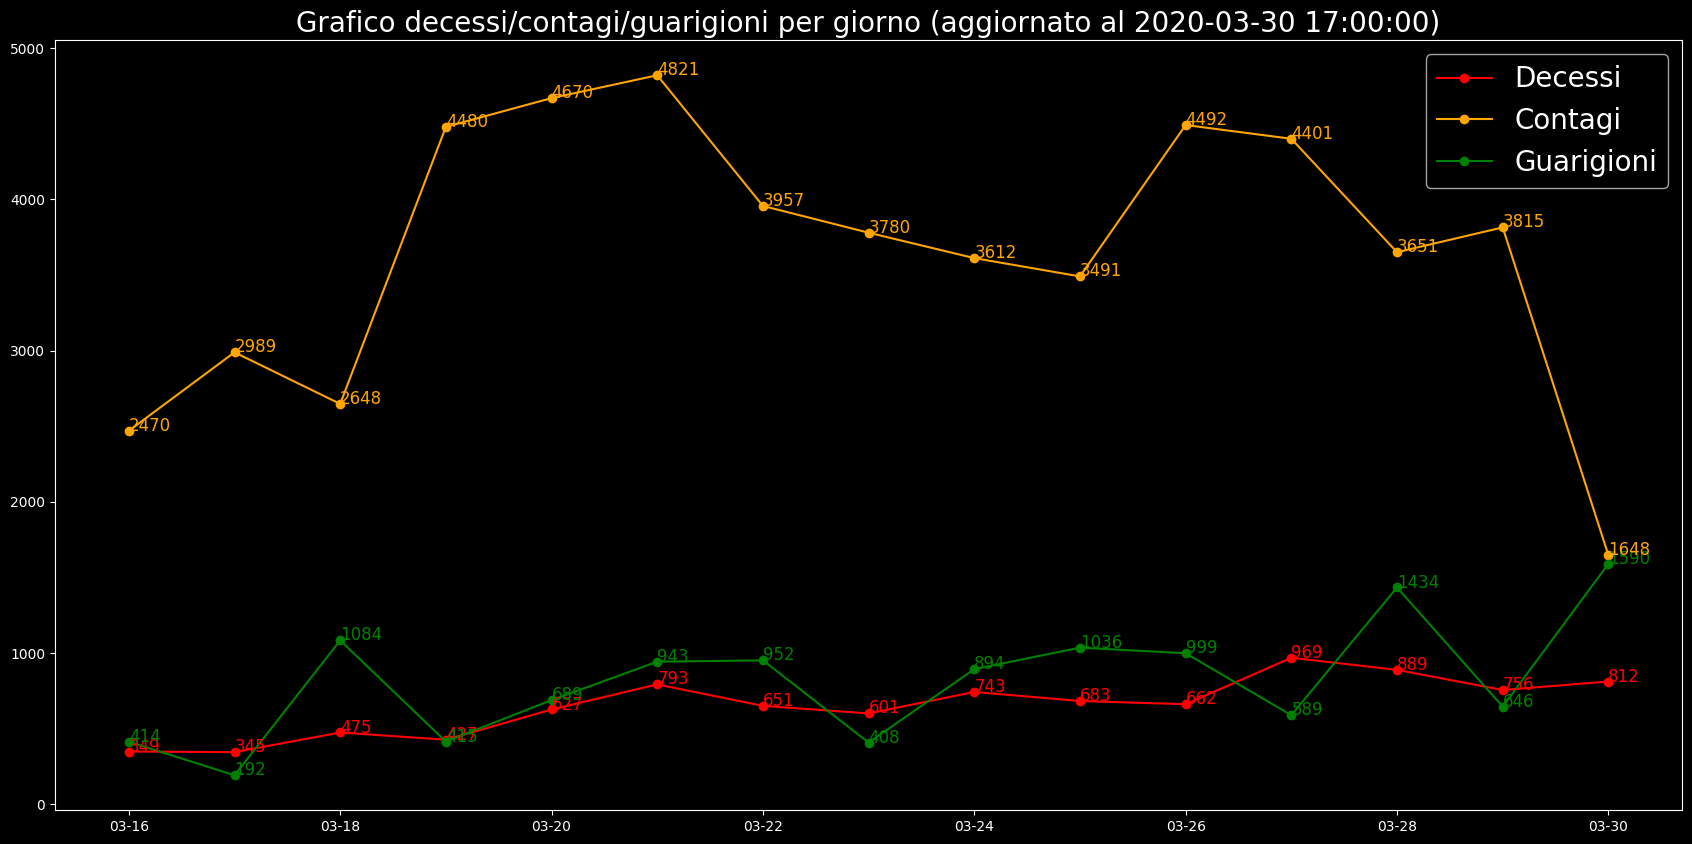
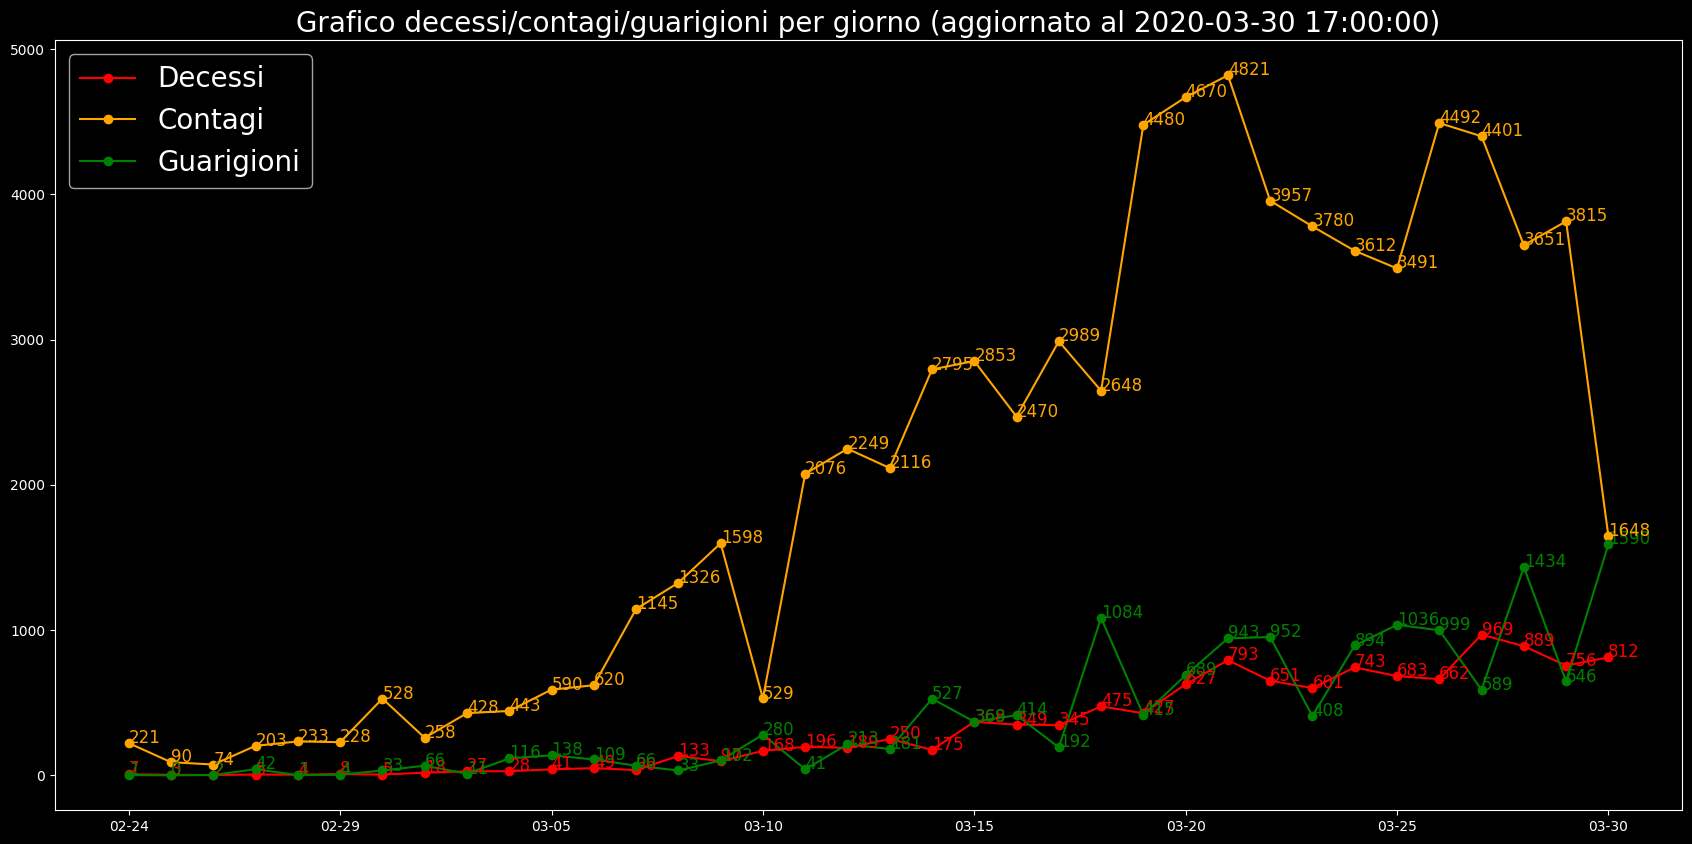
Updated graph generator

diff --git a/covid19graphs/src/ContHealDeathPerDay.py b/covid19graphs/src/ContHealDeathPerDay.py
@@ -3,7 +3,7 @@ import pandas as pd
 import numpy as np
 import csv
 import copy
-days = 15  # 0 se vuoi vedere ogni giorno dal 24 febbraio
+days = 0  # 0 se vuoi vedere ogni giorno dal 24 febbraio
 
 # Funzione che rimuove l'orario dalla data di prelievo dei dati
 def removehourandyear(listdays):
